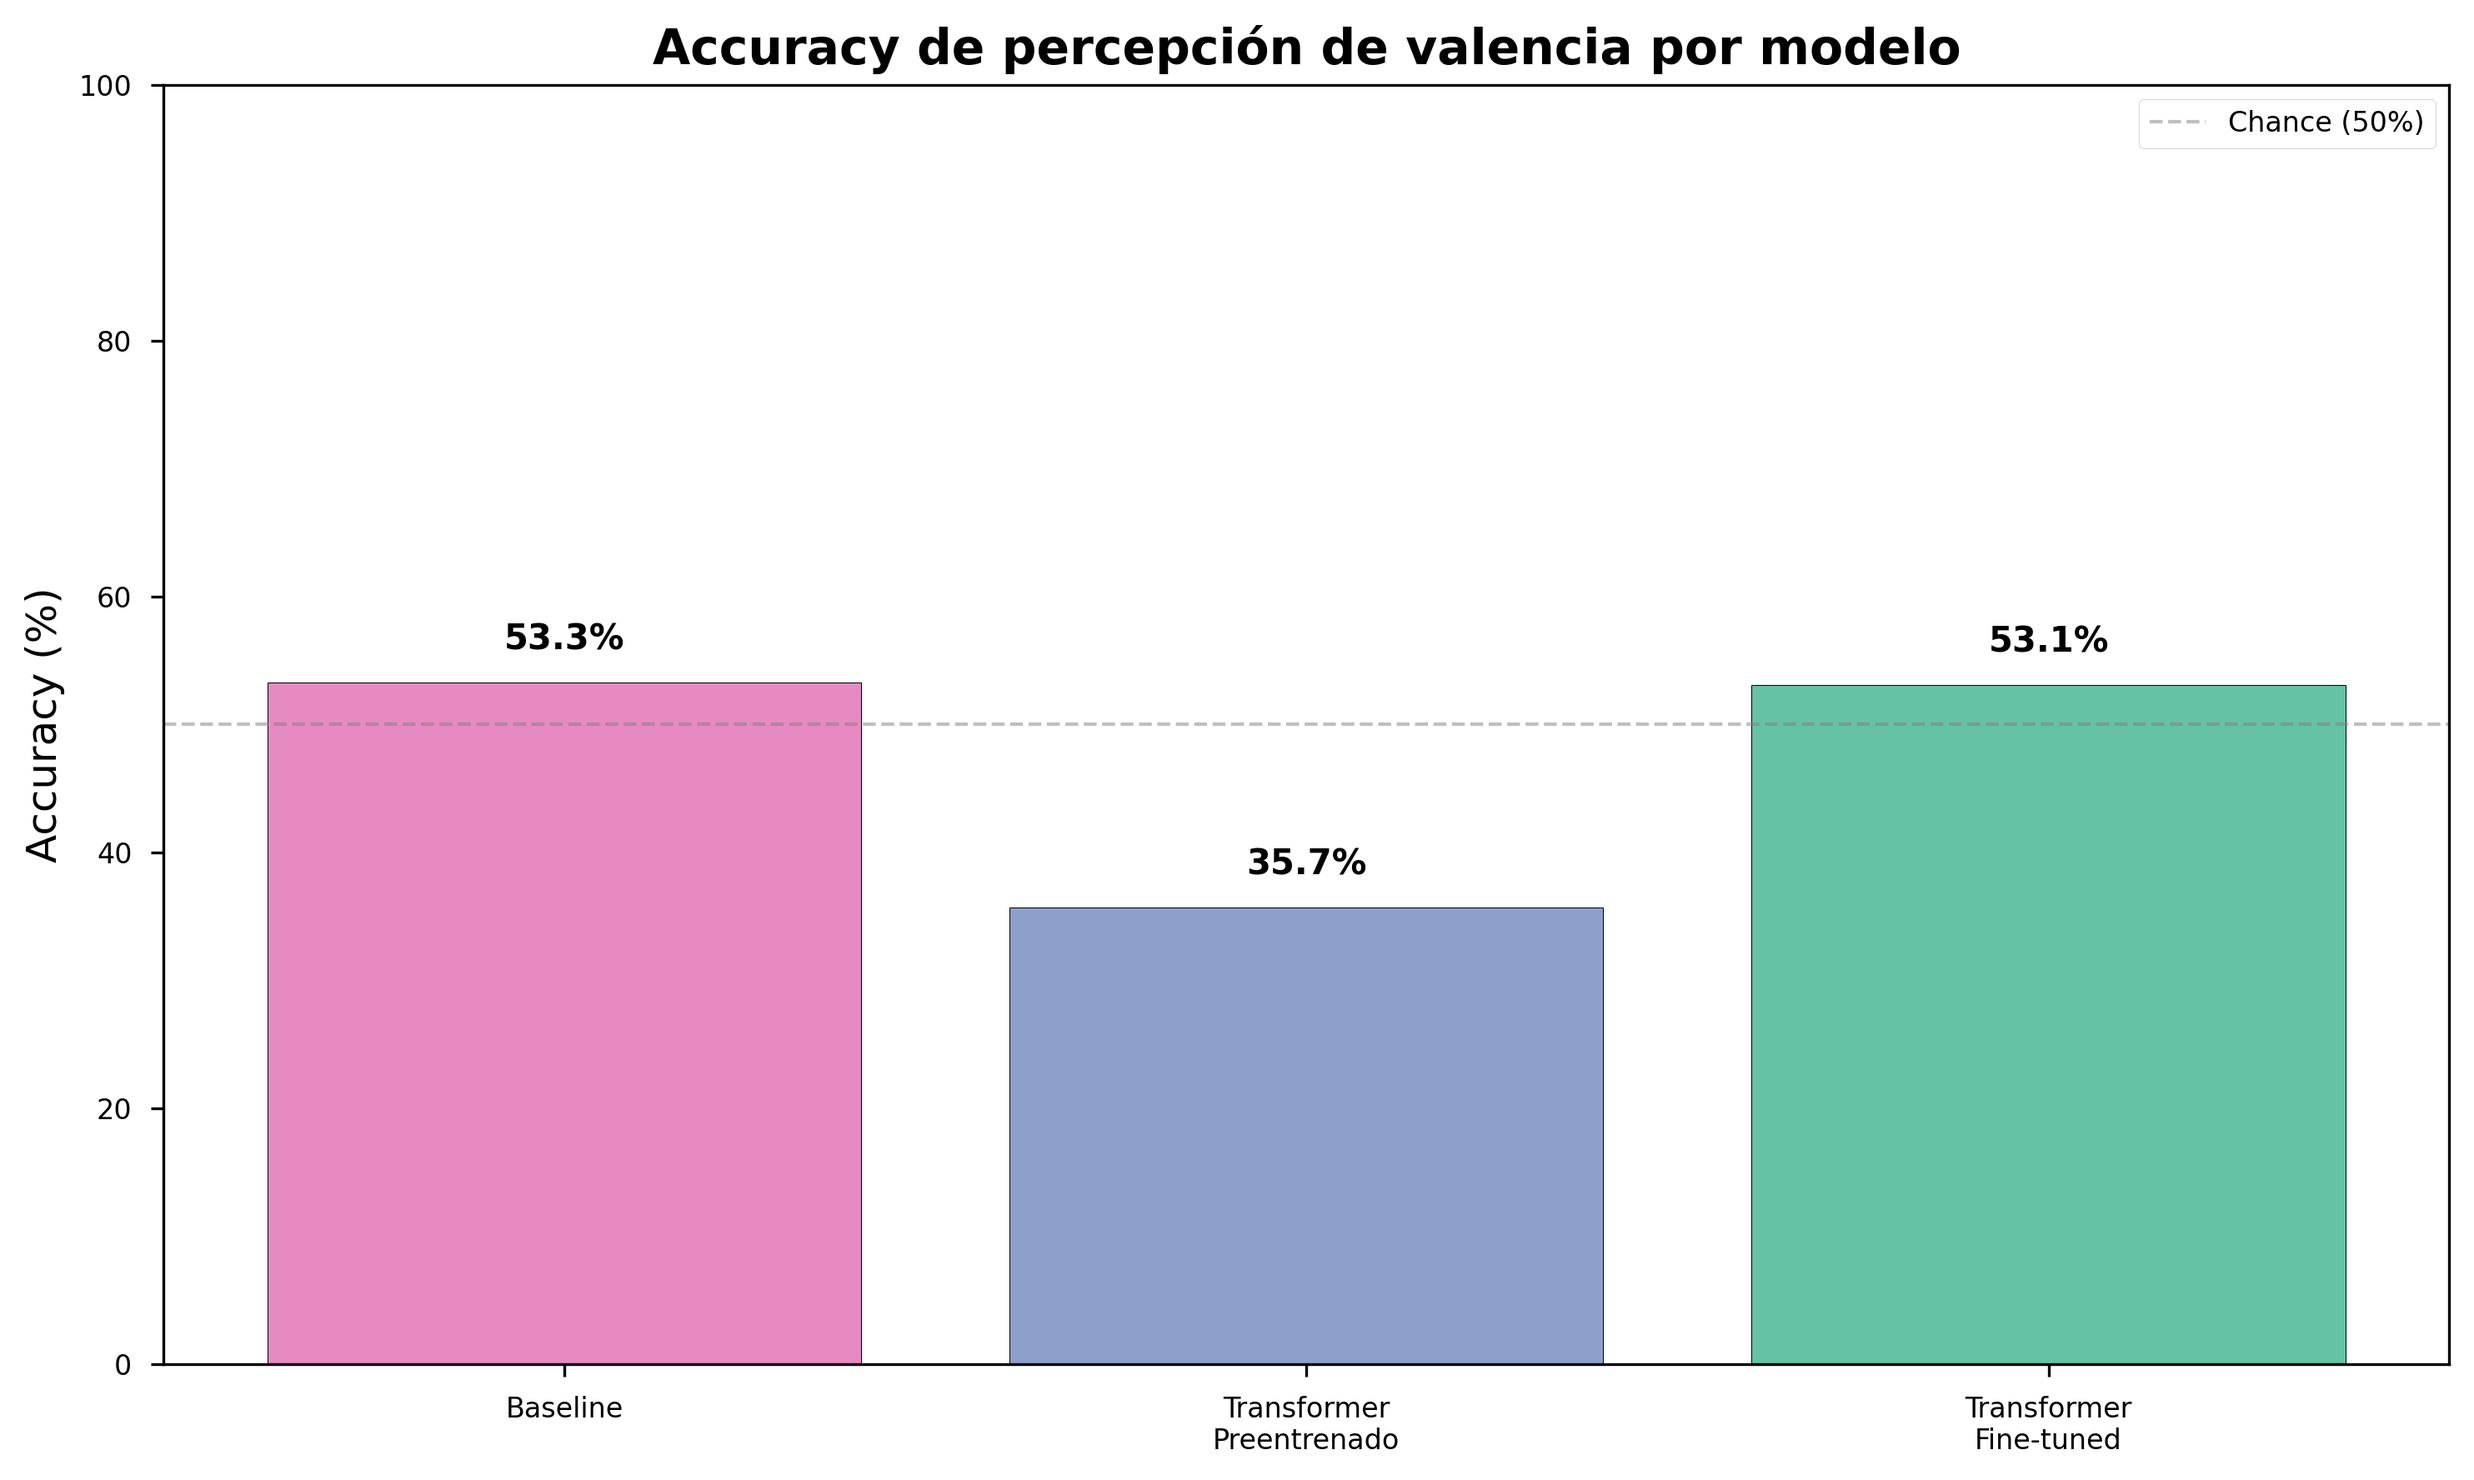
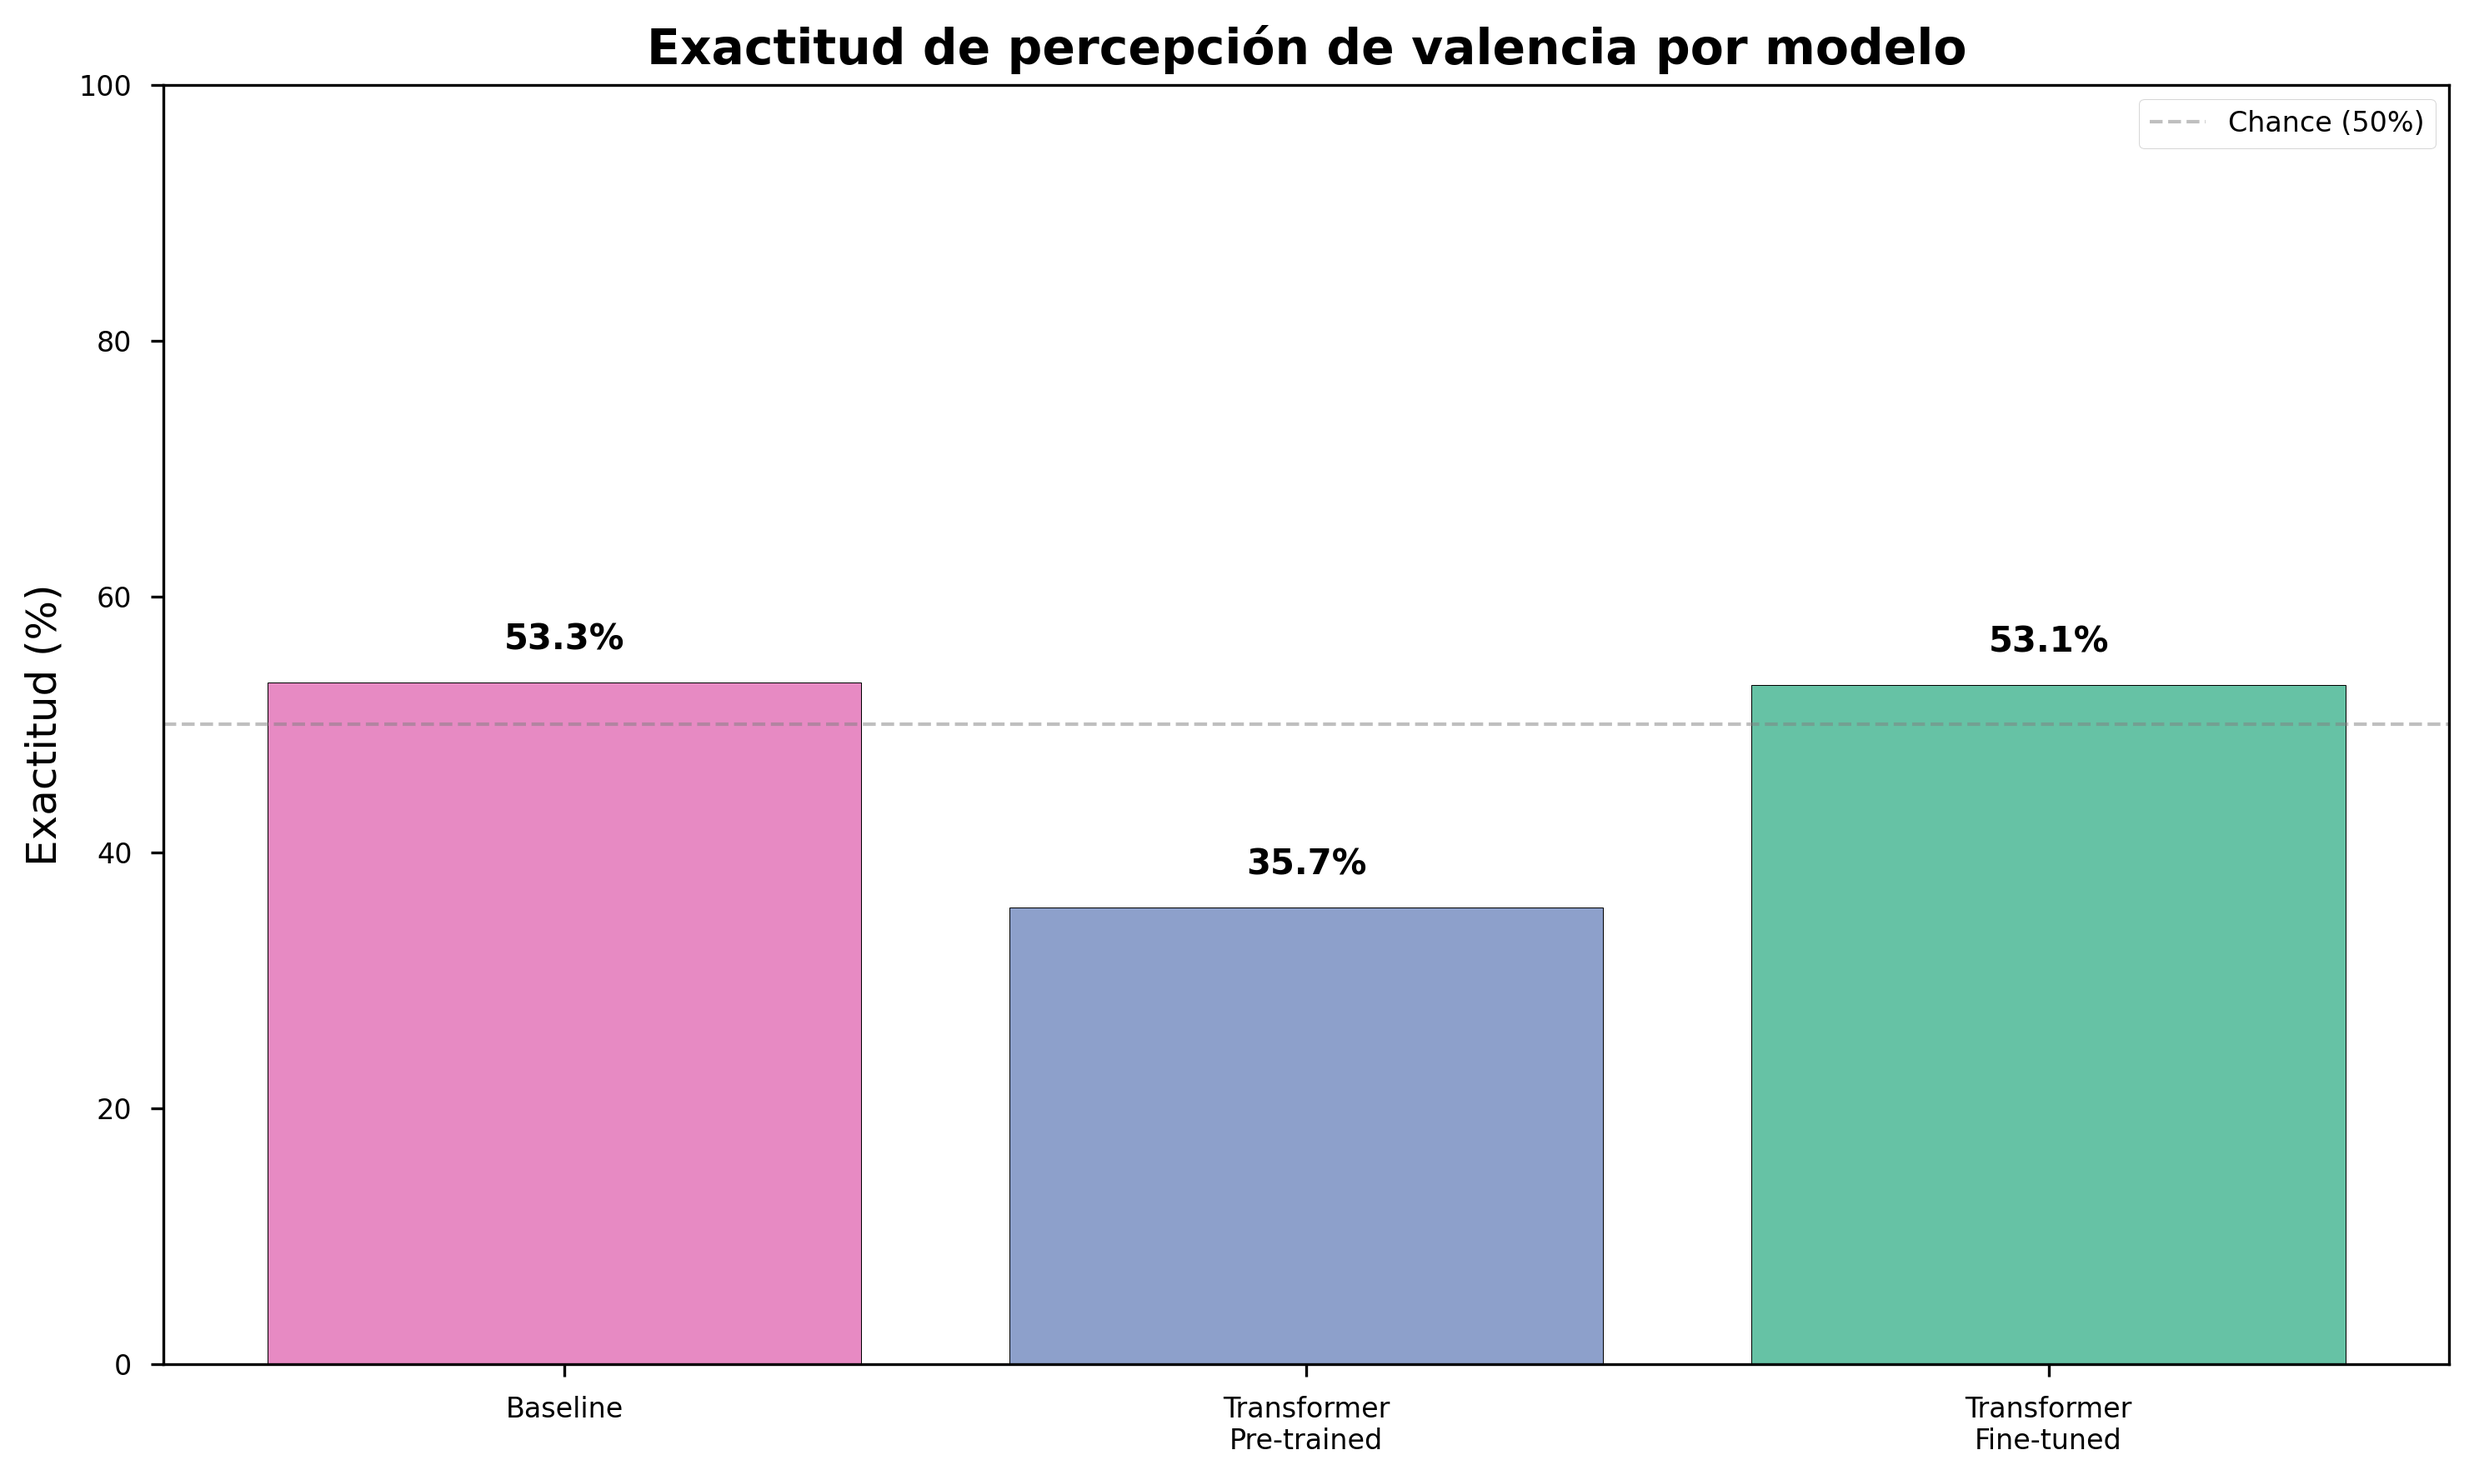
actualizando algunos script para cambios en labels de gráficos

Changed region(s): [[0.248, 0.0, 0.8059, 0.0619], [0.0, 0.4026, 0.031, 0.5884], [0.496, 0.96, 0.558, 0.991]]

diff --git a/backend/analysis/scripts/06_generate_figures.py b/backend/analysis/scripts/06_generate_figures.py
@@ -80,7 +80,7 @@ def generate_figures(df):
     print("[4/11] Valencia accuracy by model...")
     fig, ax = plt.subplots(figsize=(10, 6))
     models = ['baseline', 'pretrained', 'finetuned']
-    model_labels = ['Baseline', 'Transformer\nPreentrenado', 'Transformer\nFine-tuned']
+    model_labels = ['Baseline', 'Transformer\nPre-trained', 'Transformer\nFine-tuned']
     val_accuracies = []
     for modelo in models:
         df_model = df[
@@ -94,8 +94,8 @@ def generate_figures(df):
             val_accuracies.append(0)
     
     bars = ax.bar(model_labels, val_accuracies, color=['#e78ac3', '#8da0cb', '#66c2a5'], edgecolor='black')
-    ax.set_ylabel('Accuracy (%)', fontsize=12)
-    ax.set_title('Accuracy de percepción de valencia por modelo', fontsize=14, fontweight='bold')
+    ax.set_ylabel('Exactitud (%)', fontsize=12)
+    ax.set_title('Exactitud de percepción de valencia por modelo', fontsize=14, fontweight='bold')
     ax.set_ylim(0, 100)
     ax.axhline(50, color='gray', linestyle='--', linewidth=1, alpha=0.5, label='Chance (50%)')
     for i, v in enumerate(val_accuracies):
@@ -121,8 +121,8 @@ def generate_figures(df):
             ar_accuracies.append(0)
     
     bars = ax.bar(model_labels, ar_accuracies, color=['#e78ac3', '#8da0cb', '#66c2a5'], edgecolor='black')
-    ax.set_ylabel('Accuracy (%)', fontsize=12)
-    ax.set_title('Accuracy de percepción de activación por modelo', fontsize=14, fontweight='bold')
+    ax.set_ylabel('Exactitud (%)', fontsize=12)
+    ax.set_title('Exactitud de percepción de activación por modelo', fontsize=14, fontweight='bold')
     ax.set_ylim(0, 100)
     ax.axhline(50, color='gray', linestyle='--', linewidth=1, alpha=0.5, label='Chance (50%)')
     for i, v in enumerate(ar_accuracies):

diff --git a/backend/scripts/evaluate_emotional_confusion_music.py b/backend/scripts/evaluate_emotional_confusion_music.py
@@ -418,7 +418,7 @@ def plot_confusion_matrix(
     ax.set_ylabel('Cuadrante Objetivo (VA target)', fontsize=12, fontweight='bold')
     ax.set_title(
         f'Matriz de Confusión Emocional — {engine}\n'
-        f'Accuracy = {accuracy:.1%} (n={cm_array.sum()})',
+        f'Exactitud = {accuracy:.1%} (n={cm_array.sum()})',
         fontsize=13, fontweight='bold'
     )
 
